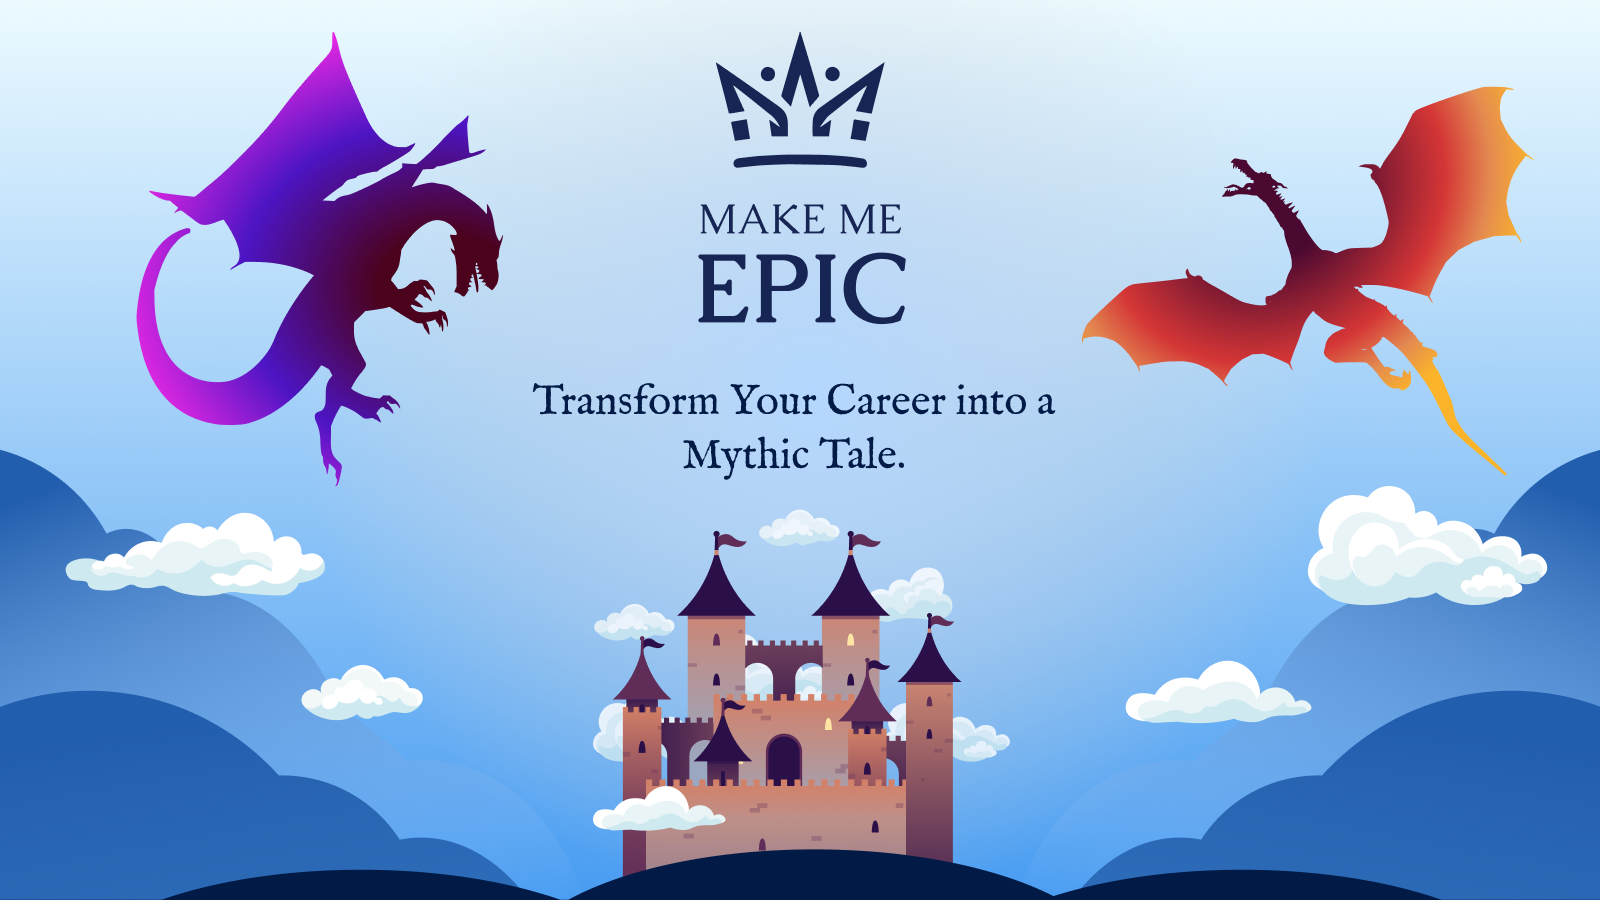
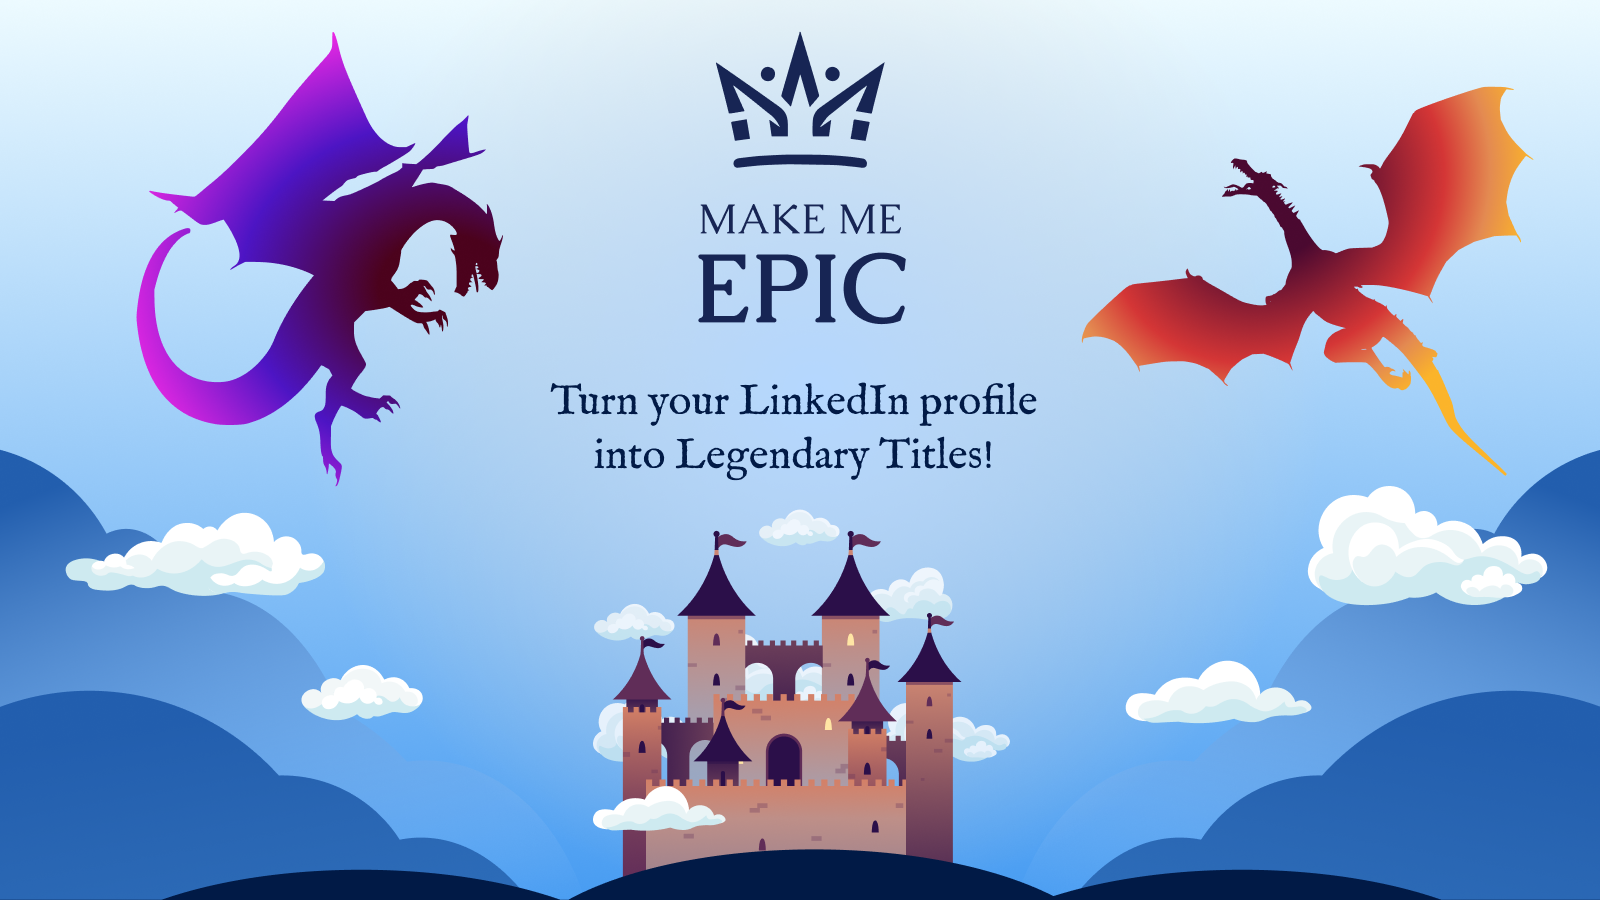
New catchphrase

Changed region(s): [[0.3438, 0.4044, 0.6562, 0.5289]]

diff --git a/app/page.tsx b/app/page.tsx
@@ -40,9 +40,10 @@ export default function Home() {
           </div>
         </div>
         <div className="relative overflow-hidden">
-          <div className="text-2xl md:text-3xl leading-normal text-center mx-auto text-blue-950 mb-[25vw] relative z-10">
-            Harness AI to Extract Mythical Titles
-            <br /> from Your LinkedIn.
+          <div className="text-2xl md:leading-normal md:text-3xl text-center mx-auto text-blue-950 mb-[25vw] relative z-10">
+            Turn your LinkedIn profile
+            <br />
+            into Legendary Titles!
           </div>
           <div className="absolute aspect-[962/940] w-[60vw] -bottom-[34vw] -left-[8vw]">
             <Image src="/assets/mountain1.svg" alt="" fill />

diff --git a/app/layout.tsx b/app/layout.tsx
@@ -18,9 +18,9 @@ const caudex = Caudex({
 });
 
 export const metadata: Metadata = {
-  title: "Make me Epic - Generate epic titles from your CV",
+  title: "Make me Epic - Turn your LinkedIn profile into Legendary Titles!",
   description:
-    "Generate epic titles from your LinkedIn CV, become the Mother of Dragons or the King of the North.",
+    "AI powered generator that turns your LinkedIn profile into Epic Titles, become the Mother of Dragons or the King of the North.",
   openGraph: {
     images: ["https://makemeepic.app/assets/og-image.png"],
   },
